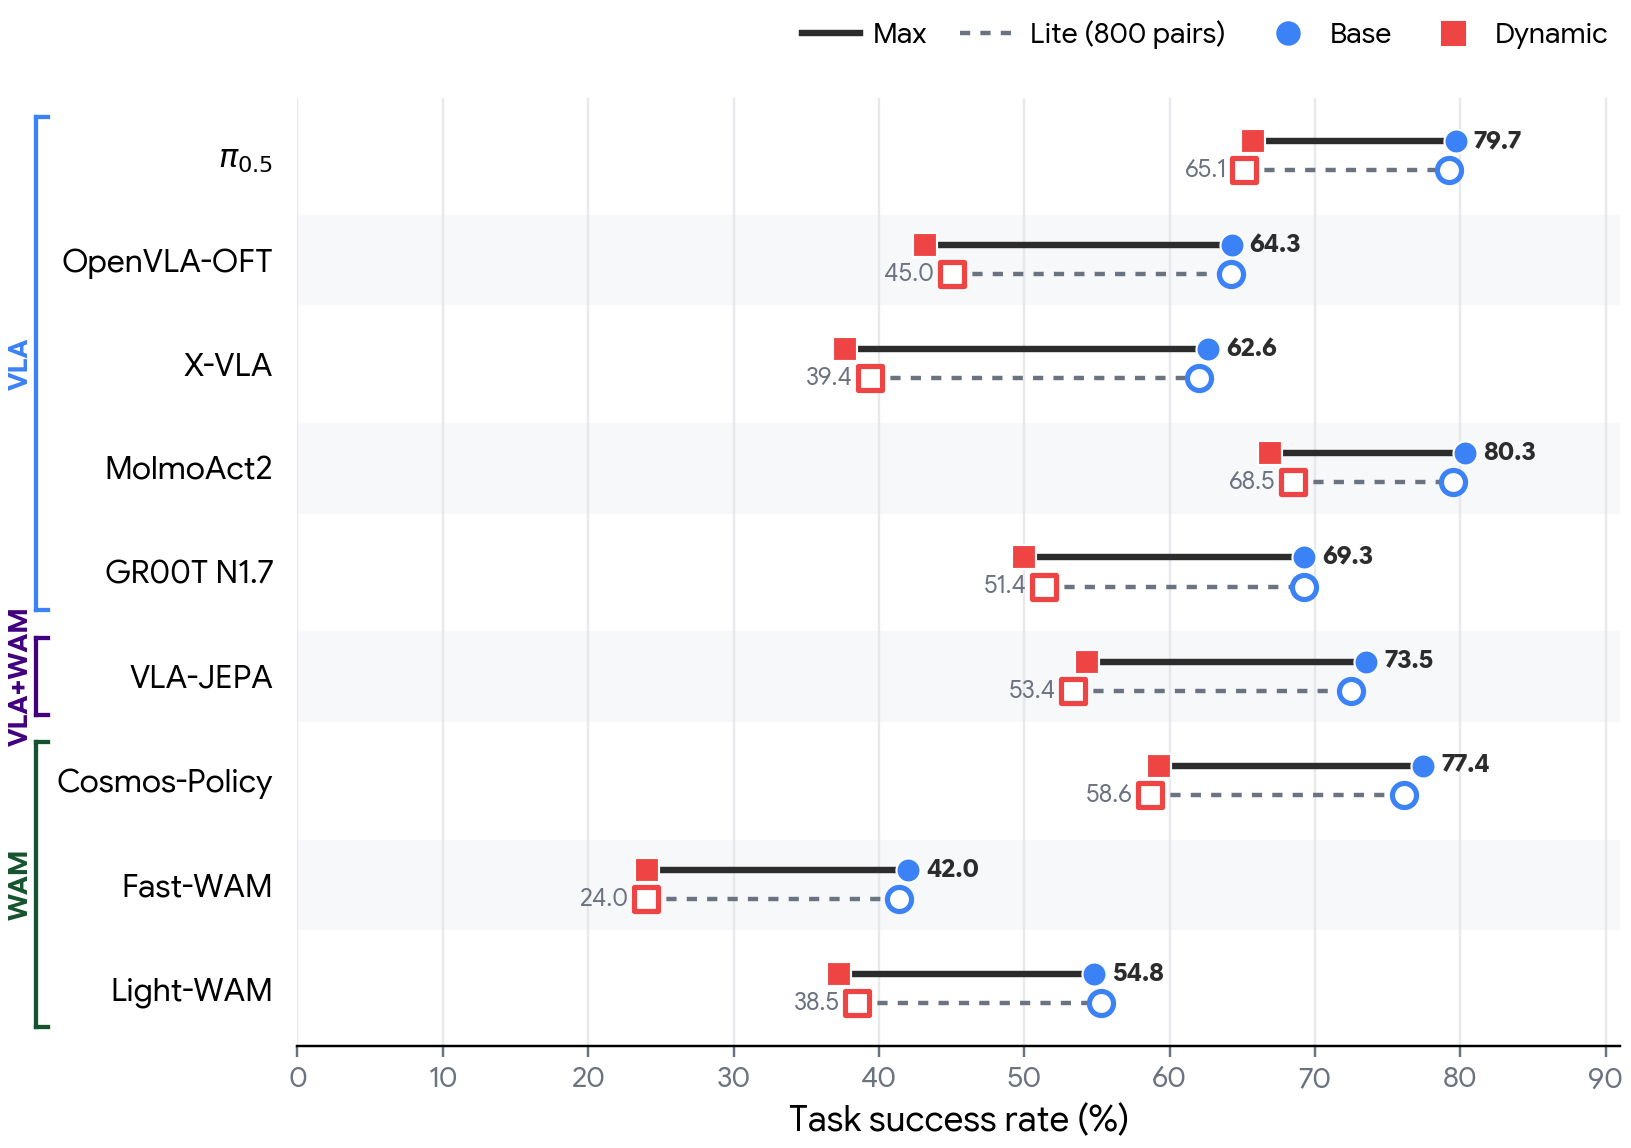
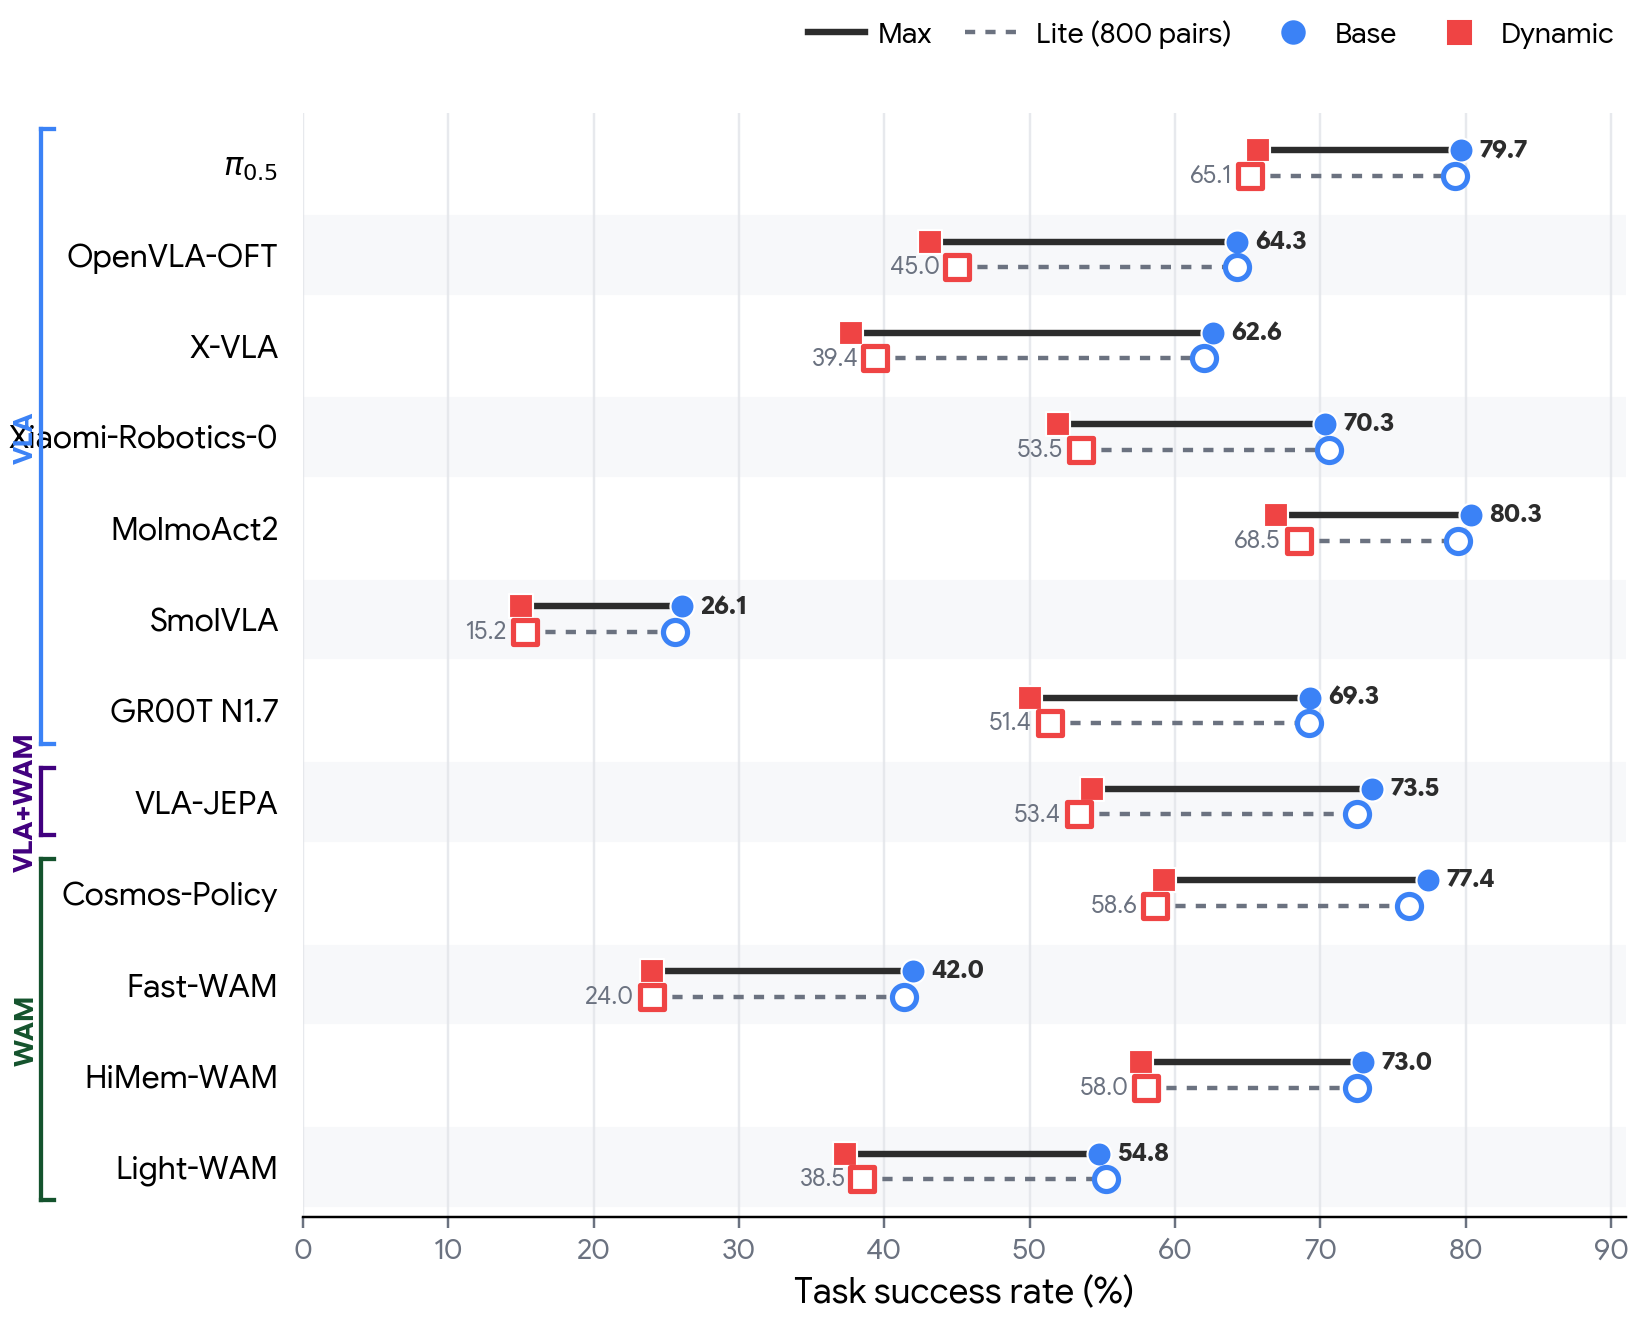
Expand Lite validation to twelve checkpoints

diff --git a/README.md b/README.md
@@ -34,7 +34,7 @@ prefix before the change.
 
 - **2026-08-31:** Released **LIBERO-MAX Lite**, a fixed 800-pair subset that
   uses 10% of the Max rollout budget, together with audited Max--Lite results
-  for nine checkpoints.
+  for twelve checkpoints.
 - **2026-08-30:** Expanded the complete 8,000-pair comparison from five to
   **thirteen VLA, VLA + WM, and WAM checkpoints**.
 - **2026-08-20:** Expanded the complete 8,000-pair evaluation to **ten**
@@ -153,25 +153,29 @@ compact source data for the table and plots is available in
 
 Lite uses the same frozen case IDs and the same native checkpoint settings as
 Max. Only the evaluation set changes: each Lite checkpoint scores 800 matched
-pairs, or 1,600 rollouts. Across the nine checkpoints with audited Lite records,
-Lite preserves the Dynamic-success ordering observed on Max. The largest
-absolute Max--Lite deviation over Base success, Dynamic success, and the paired
-gap is 2.4 percentage points.
+pairs, or 1,600 rollouts. Across the twelve checkpoints with audited Lite
+records, the largest absolute Max--Lite deviation over Base success, Dynamic
+success, and the paired gap is 2.4 percentage points. The Dynamic ordering has
+one adjacent swap: Xiaomi-Robotics-0 and VLA-JEPA are separated by 0.1 points
+on Lite.
 
 | Model | Max Base | Lite Base | Max Dynamic | Lite Dynamic | Max gap | Lite gap |
 | --- | ---: | ---: | ---: | ---: | ---: | ---: |
 | π0.5 | 79.7 | 79.3 | 65.7 | 65.1 | −13.9 | −14.1 |
 | OpenVLA-OFT | 64.3 | 64.3 | 43.2 | 45.0 | −21.1 | −19.3 |
 | X-VLA | 62.6 | 62.0 | 37.7 | 39.4 | −24.9 | −22.6 |
+| Xiaomi-Robotics-0 | 70.3 | 70.6 | 52.0 | 53.5 | −18.3 | −17.1 |
 | MolmoAct2 | 80.3 | 79.5 | 66.9 | 68.5 | −13.4 | −11.0 |
+| SmolVLA | 26.1 | 25.6 | 15.0 | 15.3 | −11.0 | −10.4 |
 | GR00T N1.7 | 69.3 | 69.3 | 50.0 | 51.4 | −19.3 | −17.9 |
 | VLA-JEPA | 73.5 | 72.5 | 54.3 | 53.4 | −19.2 | −19.1 |
 | Cosmos-Policy | 77.4 | 76.1 | 59.3 | 58.6 | −18.2 | −17.5 |
 | Fast-WAM | 42.0 | 41.4 | 24.0 | 24.0 | −18.0 | −17.4 |
+| HiMem-WAM | 73.0 | 72.5 | 57.7 | 58.0 | −15.3 | −14.5 |
 | Light-WAM | 54.8 | 55.3 | 37.3 | 38.5 | −17.5 | −16.8 |
 
 <p align="center">
-  <img src="assets/figures/max_lite_validation.png" width="95%" alt="Max and Lite Base and Dynamic success rates across nine audited checkpoints">
+  <img src="assets/figures/max_lite_validation.png" width="95%" alt="Max and Lite Base and Dynamic success rates across twelve audited checkpoints">
 </p>
 
 The exact values are available in
